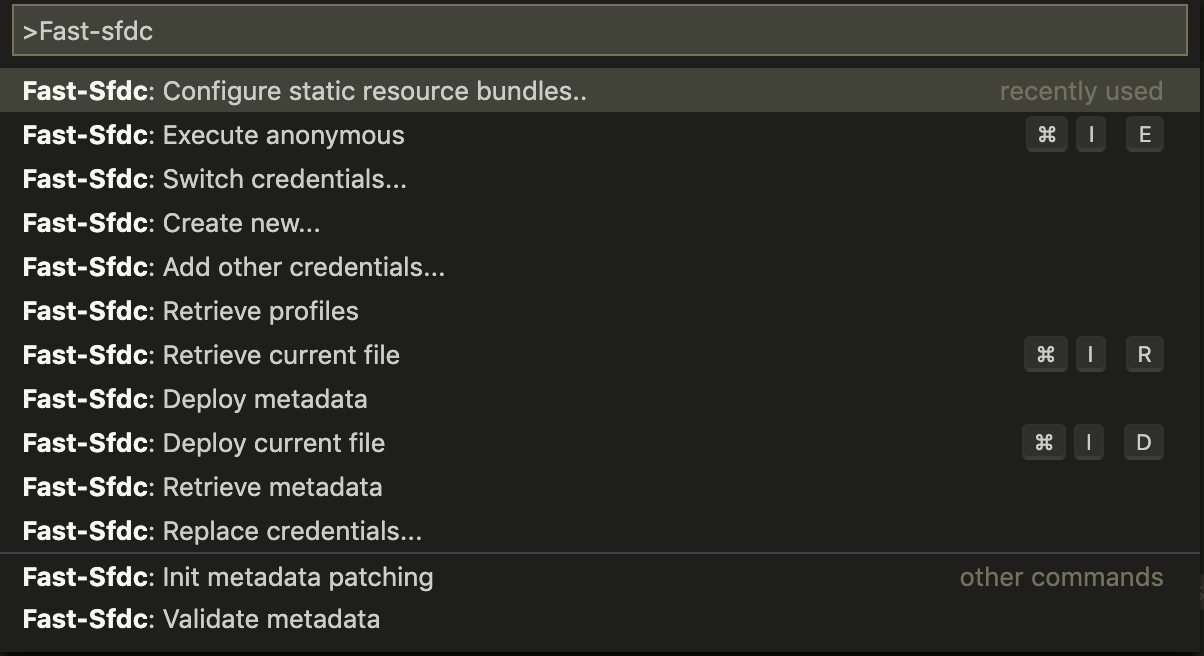
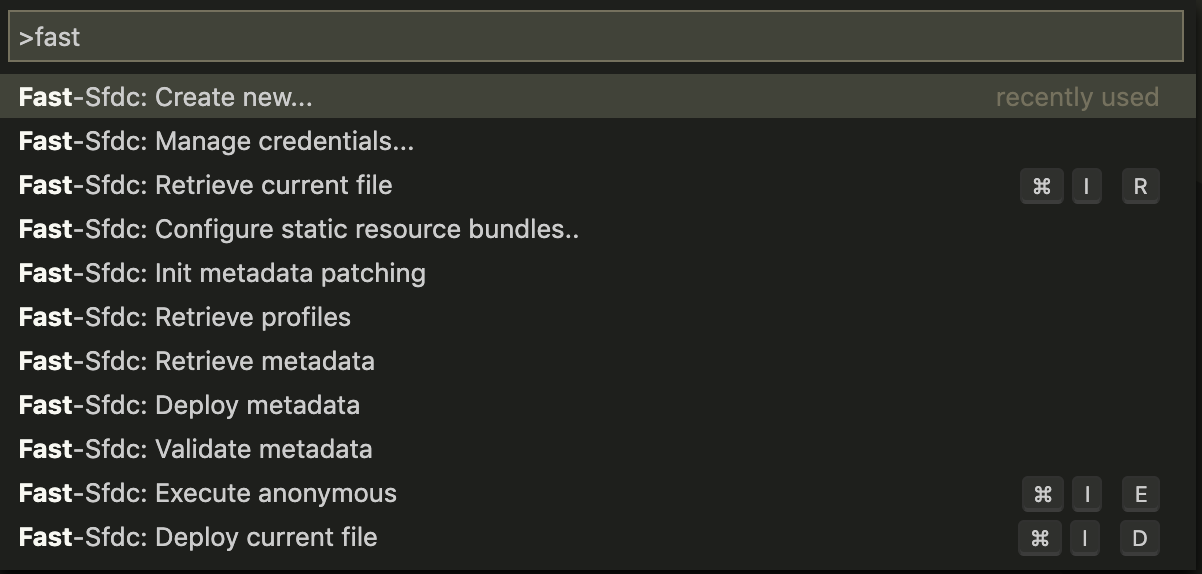
[release] v1.5.0

diff --git a/CHANGELOG.md b/CHANGELOG.md
@@ -1,4 +1,15 @@
 # Change Log
+## 1.5.0
+* New Unified `Manage Credentials` menu. From here you can fully manage your credentials:
+  * Add credentials
+  * Remove credentials
+  * Replace current credentials
+  * Switch credentials
+* Click `fast-sfdc` status bar to open the `Manage Credentials` menu
+* `vscode` builtin spinner icon
+* LWC filename validation
+* Create HTML file along with the LWC (thanks [makostas1996](https://github.com/makostas1996))
+
 ## 1.4.6
 * Bugfixing
 
